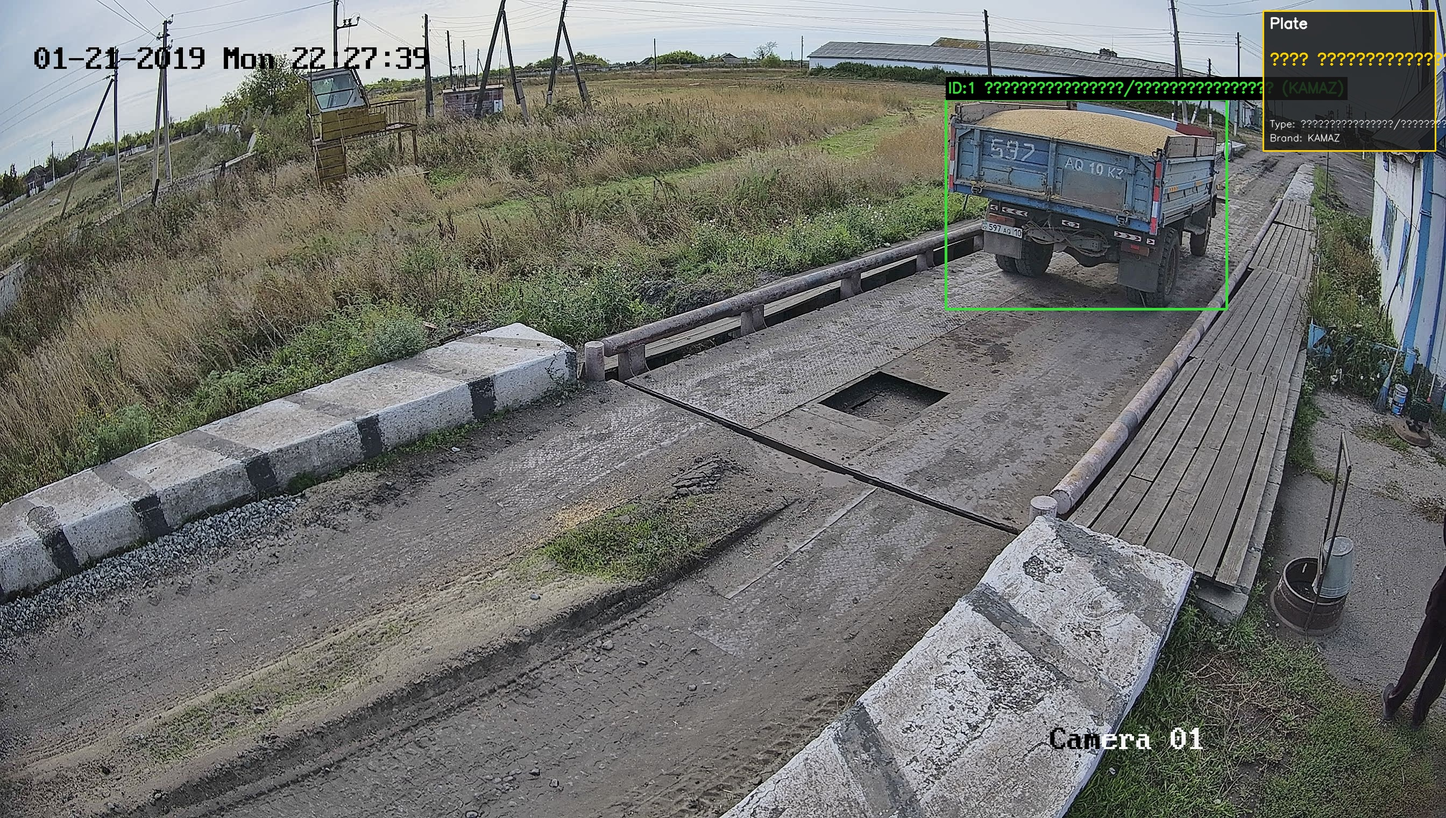
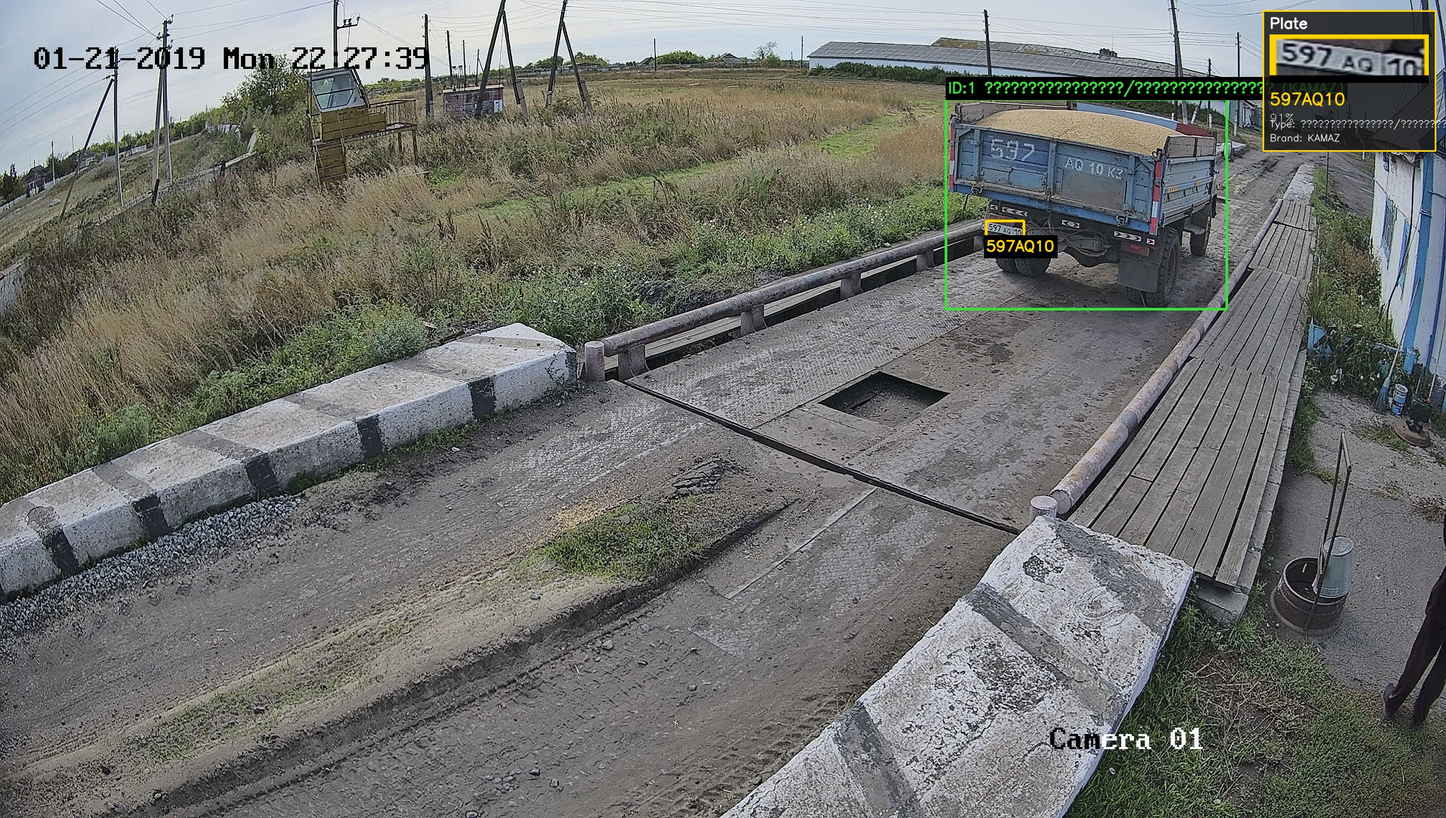
Retry plate OCR on zoomed lower crop when full-frame pass finds nothing
Distant/small vehicles sometimes have a tiny plate that the text
detector misses entirely when it's dwarfed by larger nearby text
(hand-painted fleet numbers on the tailgate, brand decals). Re-running
OCR on a 4x-upscaled crop of just the lower part of the vehicle box
recovers these (8.jpg, 22.jpg) without affecting any previously
correct result.

Changed region(s): [[0.875, 0.0309, 1.0, 0.1546], [0.6562, 0.2474, 0.75, 0.3401]]

diff --git a/src/plate.py b/src/plate.py
@@ -2,6 +2,7 @@
 import re
 from dataclasses import dataclass
 
+import cv2
 from paddleocr import PaddleOCR
 
 from config import PLATE_REGEX
@@ -23,6 +24,11 @@ _TWO_LINE_PLATE_REGEX = re.compile(r"^[A-Z]{1,4}\d{2,5}$")
 # Сколько символов слева пробуем отрезать перед строгим совпадением с форматом номера —
 # OCR иногда цепляет соседний код страны ("KZ"/"K2" слева от рамки номера) к тексту
 _MAX_PREFIX_TRIM = 3
+# Если номер не нашёлся в полном кропе техники — техника может быть мелкой/далёкой,
+# и сама табличка тонет среди более крупных деталей (шильдики, закрашенные номера на
+# кузове). Повторно ищем в увеличенной нижней части кропа, где обычно висит номер.
+_ZOOM_BOTTOM_FRACTION = 0.45
+_ZOOM_SCALE = 4
 
 
 @dataclass
@@ -109,6 +115,60 @@ def _best_strict_match(text: str):
     return None
 
 
+def _match_fragments(fragments):
+    """Прогоняет фрагменты OCR через три уровня проверки (точный формат номера,
+    мягкий фолбэк, двухстрочный номер) и возвращает лучшего кандидата
+    (text, conf, bbox_local) либо None."""
+    # 1) точный формат номера — пробуем каждый фрагмент целиком и его суффиксы
+    # (PaddleOCR обычно читает весь номер одним связным фрагментом)
+    best = None
+    for text, conf, bbox_local in fragments:
+        matched = _best_strict_match(text)
+        if matched is not None and (best is None or conf > best[1]):
+            best = (matched, conf, bbox_local)
+    if best is not None:
+        return best
+
+    # 2) запасной вариант: текст похож на номер по форме "цифры-буквы-(цифры)",
+    # даже если не совпадает точно (например, не распознался код региона)
+    fallback_candidates = [
+        (text, conf, bbox_local) for text, conf, bbox_local in fragments
+        if len(text) in _FALLBACK_LEN_RANGE and _FALLBACK_PLATE_REGEX.match(text)
+    ]
+    if fallback_candidates:
+        return max(fallback_candidates, key=lambda c: c[1])
+
+    # 3) двухстрочный номер старого образца (серия сверху, номер снизу)
+    two_line_matches = [
+        (text, conf, bbox_local) for text, conf, bbox_local in _two_line_candidates(fragments)
+        if _TWO_LINE_PLATE_REGEX.match(text)
+    ]
+    if two_line_matches:
+        return max(two_line_matches, key=lambda c: c[1])
+
+    return None
+
+
+def _zoomed_bottom_ocr(crop):
+    """Повторный OCR на увеличенной нижней части кропа техники (где обычно висит
+    номер) — помогает, когда техника мелкая/далёкая и настоящая табличка тонет
+    среди более крупных деталей (закрашенные номера на кузове, шильдики и т.п.).
+    Возвращает фрагменты в координатах исходного crop."""
+    ch = crop.shape[0]
+    y_offset = int(ch * (1 - _ZOOM_BOTTOM_FRACTION))
+    bottom = crop[y_offset:, :]
+    if bottom.size == 0:
+        return []
+    zoomed = cv2.resize(bottom, (bottom.shape[1] * _ZOOM_SCALE, bottom.shape[0] * _ZOOM_SCALE),
+                         interpolation=cv2.INTER_CUBIC)
+    fragments = []
+    for text, conf, (zx1, zy1, zx2, zy2) in _run_ocr(zoomed):
+        bbox_local = (zx1 / _ZOOM_SCALE, zy1 / _ZOOM_SCALE + y_offset,
+                      zx2 / _ZOOM_SCALE, zy2 / _ZOOM_SCALE + y_offset)
+        fragments.append((text, conf, bbox_local))
+    return fragments
+
+
 def find_plate(image, vehicle_bbox: tuple) -> PlateResult:
     """image: полный кадр (numpy BGR). vehicle_bbox: bbox техники."""
     x1, y1, x2, y2 = [int(v) for v in vehicle_bbox]
@@ -119,40 +179,16 @@ def find_plate(image, vehicle_bbox: tuple) -> PlateResult:
     if crop.size == 0:
         return PlateResult(None, 0.0, None)
 
-    fragments = _run_ocr(crop)
-
     def to_global(bbox_local):
         lx1, ly1, lx2, ly2 = bbox_local
         return (x1 + lx1, y1 + ly1, x1 + lx2, y1 + ly2)
 
-    # 1) точный формат номера — пробуем каждый фрагмент целиком и его суффиксы
-    # (PaddleOCR обычно читает весь номер одним связным фрагментом)
-    best = None
-    for text, conf, bbox_local in fragments:
-        matched = _best_strict_match(text)
-        if matched is not None and (best is None or conf > best[1]):
-            best = (matched, conf, to_global(bbox_local))
+    match = _match_fragments(_run_ocr(crop))
+    if match is None:
+        match = _match_fragments(_zoomed_bottom_ocr(crop))
 
-    if best is not None:
-        return PlateResult(*best)
-
-    # 2) запасной вариант: текст похож на номер по форме "цифры-буквы-(цифры)",
-    # даже если не совпадает точно (например, не распознался код региона)
-    fallback_candidates = [
-        (text, conf, bbox_local) for text, conf, bbox_local in fragments
-        if len(text) in _FALLBACK_LEN_RANGE and _FALLBACK_PLATE_REGEX.match(text)
-    ]
-    if fallback_candidates:
-        text, conf, bbox_local = max(fallback_candidates, key=lambda c: c[1])
-        return PlateResult(text, conf, to_global(bbox_local))
-
-    # 3) двухстрочный номер старого образца (серия сверху, номер снизу)
-    two_line_matches = [
-        (text, conf, bbox_local) for text, conf, bbox_local in _two_line_candidates(fragments)
-        if _TWO_LINE_PLATE_REGEX.match(text)
-    ]
-    if two_line_matches:
-        text, conf, bbox_local = max(two_line_matches, key=lambda c: c[1])
+    if match is not None:
+        text, conf, bbox_local = match
         return PlateResult(text, conf, to_global(bbox_local))
 
     return PlateResult(None, 0.0, None)
